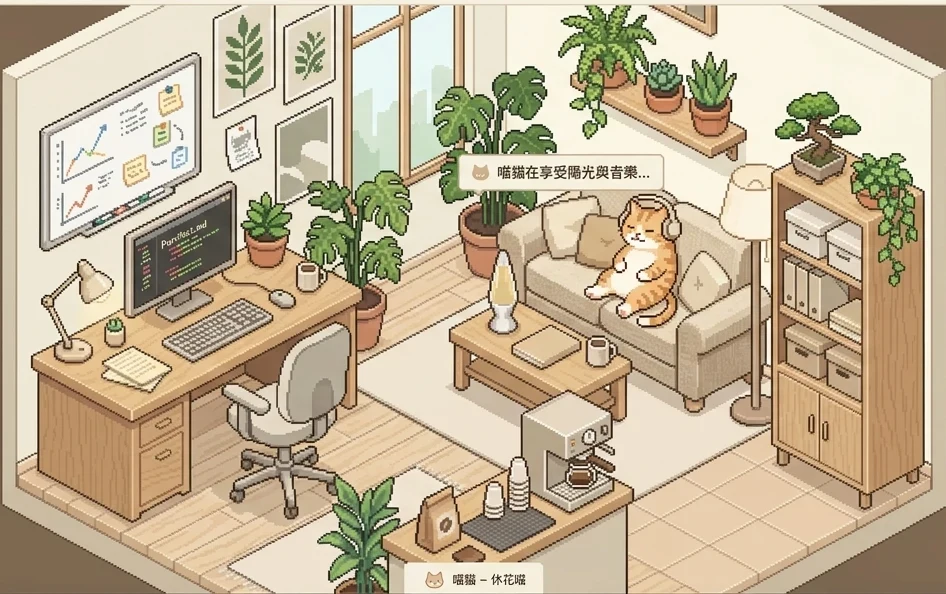
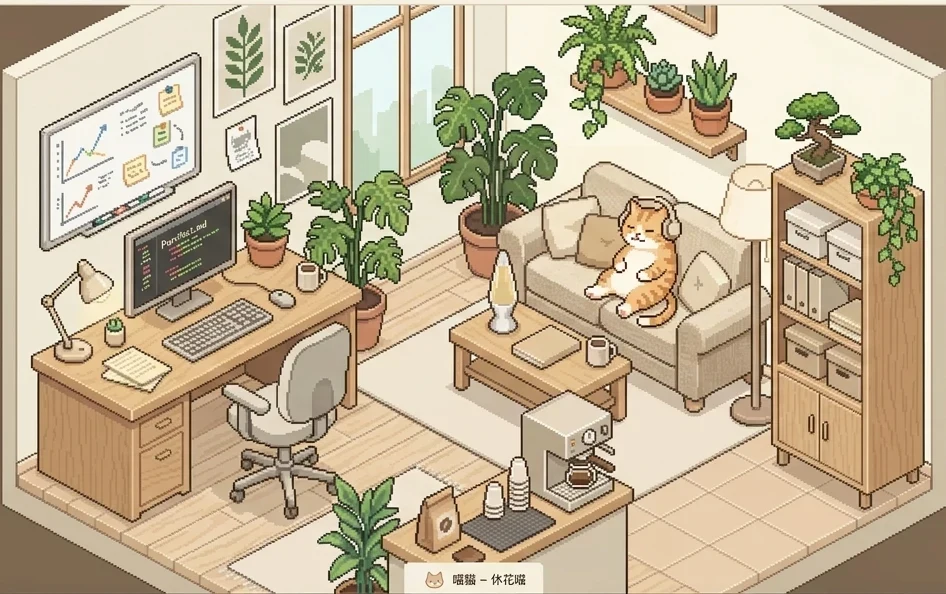
泡泡改為貼合文字的自適應尺寸；休息圖中烙印的白色對話框以工作圖對應區域修補移除
Claude-Session: https://claude.ai/code/session_013xogq3pXiwFEYA8oE25HRT

Changed region(s): [[0.4598, 0.2424, 0.7051, 0.3333]]

diff --git a/office.html b/office.html
@@ -159,10 +159,12 @@
   }
   .speech-bubble::before{ content:'🐱'; font-size:1.15em; flex-shrink:0; }
   .speech-bubble.thinking{ font-style:italic; color:#7a6a58; }
-  /* resting：蓋住沙發插畫裡烙印的對話框（原文字約 x48%~70.5%、y25.5%~31.5%），四周留餘裕 */
-  #scene.mood-resting .speech-bubble{ left:43%; top:19%; width:33%; min-height:17%; }
-  /* working：移到書桌區上方偏右，避開螢幕與白板（貓約在 x20%~38%、y42%~72%） */
-  #scene.mood-working .speech-bubble{ left:27%; top:13%; width:30%; min-height:11%; }
+  /* 泡泡尺寸貼合文字：寬度隨字數、高度隨行數（烙印對話框已從圖檔修掉，不需再蓋） */
+  .speech-bubble{ width:max-content; max-width:42%; }
+  /* resting：泡泡放在沙發上的麻糬頭上（以中心點定位） */
+  #scene.mood-resting .speech-bubble{ left:60%; top:22%; transform:translateX(-50%); }
+  /* working：泡泡放在書桌區上方偏右，避開螢幕與白板 */
+  #scene.mood-working .speech-bubble{ left:38%; top:14%; transform:translateX(-50%); }
 
   /* 底部膠囊：疊在插畫原生膠囊「喵貓 – 休花喵」的位置（兩張圖皆有，約 x41.5%~59.5%、y93.5%~99.5%），完整蓋住烙印文字 */
   .mood-capsule{
